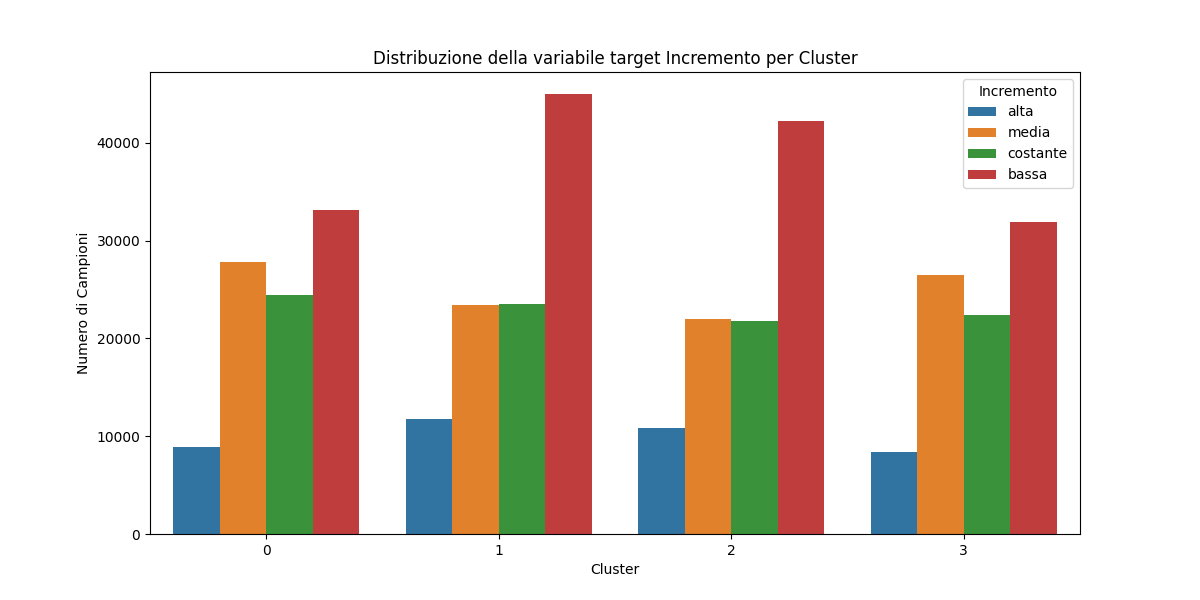
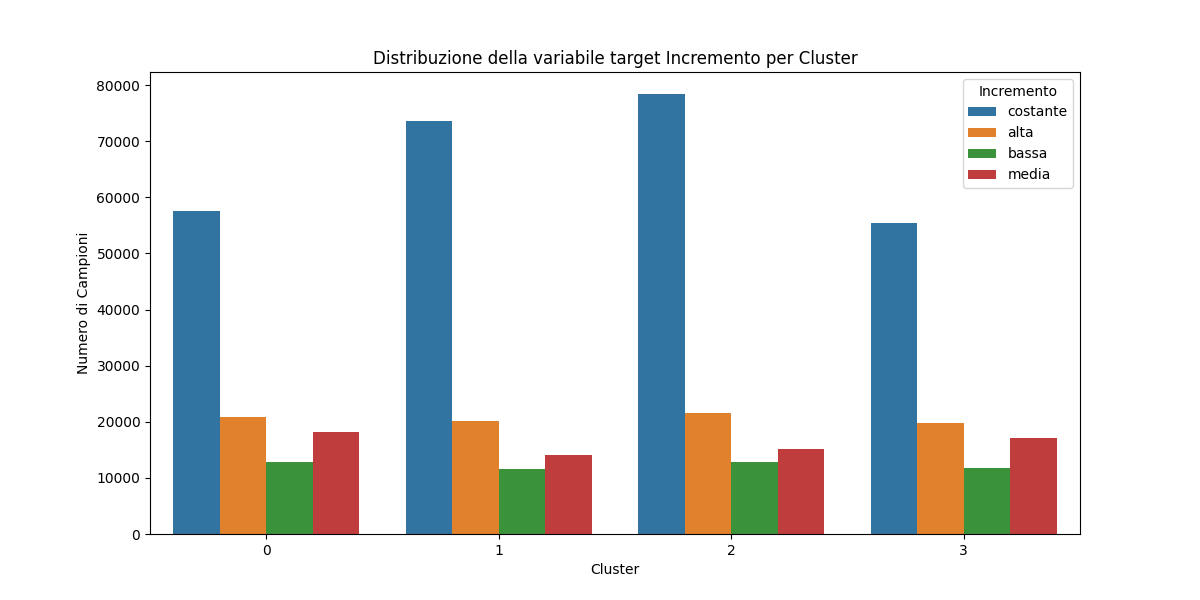
modifiche generali incremento e commenti

diff --git a/feature_extraction/extract_increment.py b/feature_extraction/extract_increment.py
@@ -75,16 +75,15 @@ def classifica_incremento(percentuale):
     Returns:
     str: La classificazione dell'incremento ('alta', 'media', 'costante', 'bassa').
     """
-    if percentuale > 100:
+    if percentuale > 78.3:
         return 'alta'
-    elif 50 < percentuale <= 100:
+    elif 43.8 < percentuale <= 78.3:
         return 'media'
-    elif 0 <= percentuale <= 50:
-        return 'costante'
-    elif percentuale < 0:
+    elif 9.5 <= percentuale <= 43.8:
         return 'bassa'
-    else:
-        return 'media'  # Per valori tra 1% e 50%, assumiamo 'media'.
+    elif percentuale < 9.5:
+        return 'costante'
+
 
 
 def estendi_incremento(df):

diff --git a/clustering/clustering_execution.py b/clustering/clustering_execution.py
@@ -160,7 +160,7 @@ def execute_clustering(df):
     df['Cluster'] = labels
 
     print("Sto eseguendo l'Elbow Method...")
-    print("Attendi, mi ci vorrà del tempo...")
+    print("Attendi, mi ci vorrà del tempo... Prenditi un caffè")
     plot_elbow_method(encoded_features)
 
     print("Sto calcolando le metriche...")
